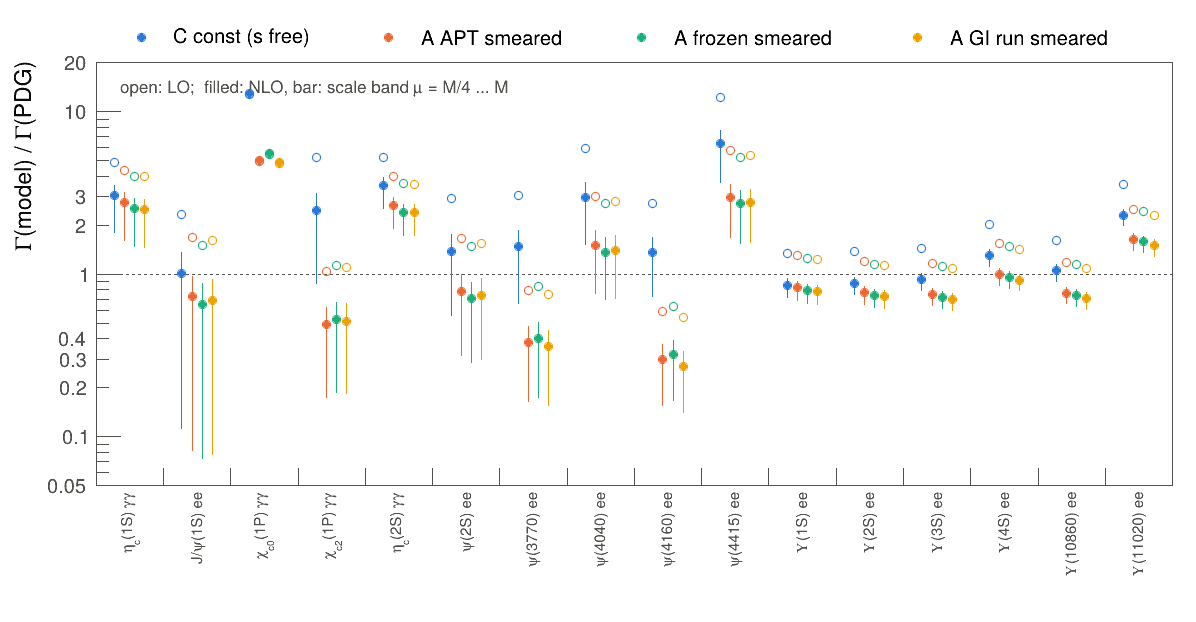
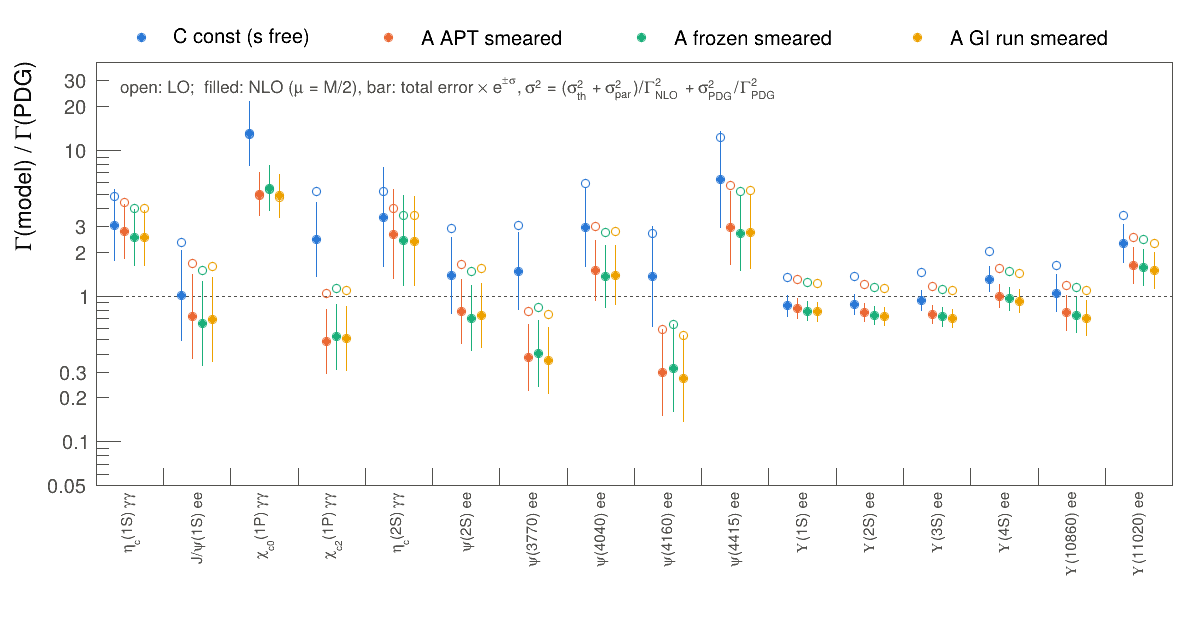
docs(report): state the verdict as amended; redraw the widths
No model passes the rule as amended; under the rule as registered two
do. The seven one-failure models share four checks; the first-order
models A const, B const and A frozen pass the decays.

diff --git a/docs/report/REPORT.md b/docs/report/REPORT.md
@@ -7,13 +7,13 @@ generated tables are in [`tables.md`](tables.md). Data: PDG 2026 (`pdg-2026.0.sq
 
 ## Summary
 
-**No model passes the selection rule.** The rule, fixed before the final sweeps, has two gates:
+**No model passes the selection rule as amended (§2.3).** The rule, fixed before the final sweeps, has two
+gates:
 
 - **Gate 1, observables.** No rejection of the masses or of the measured decays.
 - **Gate 2, physics.** Seven checks on the physical soundness of the fit.
 
-Of the 19 models in the physical set, 7 fail exactly one check. Each of these models gets a different
-observable or physics constraint wrong:
+Of the 19 models in the physical set, 7 fail exactly one check, spread over four different checks:
 
 | model | the one failed check | what it gets wrong |
 |---|---|---|
@@ -34,7 +34,8 @@ is practically tied with that of B const (34.18).
      width by a factor of 5–17. Their ³P₀ wave function is pulled in too far at short distance (§4.2).
    - The screened models with running couplings and first-order spin terms describe the P waves but
      underpredict the Υ(3S) leptonic width by about a third. Their |R_3S(0)|² is too small.
-   - The constant-coupling models pass every decay test but fail the string tension or the quark masses.
+   - The first-order models A const, B const and A frozen pass the decays but fail the string tension or the
+     quark masses.
 2. **Masses alone do not discriminate.** At one declared mass error for all models, 17 of 19 models pass the
    mass test. The declared error is c c̄ 13.3 MeV and b b̄ 3.9 MeV, from the Paule–Mandel estimator pooled
    over the ensemble. The decays and the physics checks decide.
@@ -279,7 +280,7 @@ those two show a drift pattern that would point to a missing term.
 ![widths](figures/widths.png)
 
 *Γ(model)/Γ(PDG) for every measured width. Open markers: LO (Van Royen–Weisskopf). Filled markers: NLO at
-μ = M/2. Bars: the scale band, μ = M/4 … M.*
+μ = M/2. Bars: the total error of the log-form test (theory, parametric and PDG), drawn as ratio × e^{±σ}.*
 
 **The two-photon P-wave widths separate the spin treatments.** The ratio Γ_γγ(χ_c2)/Γ_γγ(χ_c0) does not depend
 on the normalisation of the wave function.

diff --git a/README.md b/README.md
@@ -14,11 +14,12 @@ are compared by a full statistical analysis.
 
 **Results** ([report](docs/report/REPORT.md)):
 
-- **No model passes the pre-registered selection** (good masses *and* decays, *and* physically sound). Of 19
-  physical models, 7 fail exactly one check, each a different one:
+- **No model passes the selection rule as amended (see below)**: good masses *and* decays, *and* physically sound.
+  Of 19 physical models, 7 fail exactly one check, spread over four different checks:
   - the spin terms in the Hamiltonian overpredict Γ_γγ(χ_c0) 5–17×;
   - screened running-coupling models underpredict Γ_ee(Υ(3S)) by a third;
-  - constant-coupling models miss the lattice string tension or m_b − m_c.
+  - the first-order models A const, B const and A frozen pass the decays but miss the lattice string tension
+    or m_b − m_c.
 
   Best compromise: the GI-relativized model with constant α_s (C const, s free).
 - **Masses at one declared error** (Paule–Mandel, pooled: c c̄ 13.3 MeV, b b̄ 3.9 MeV) pass in 17 of 19 models.
